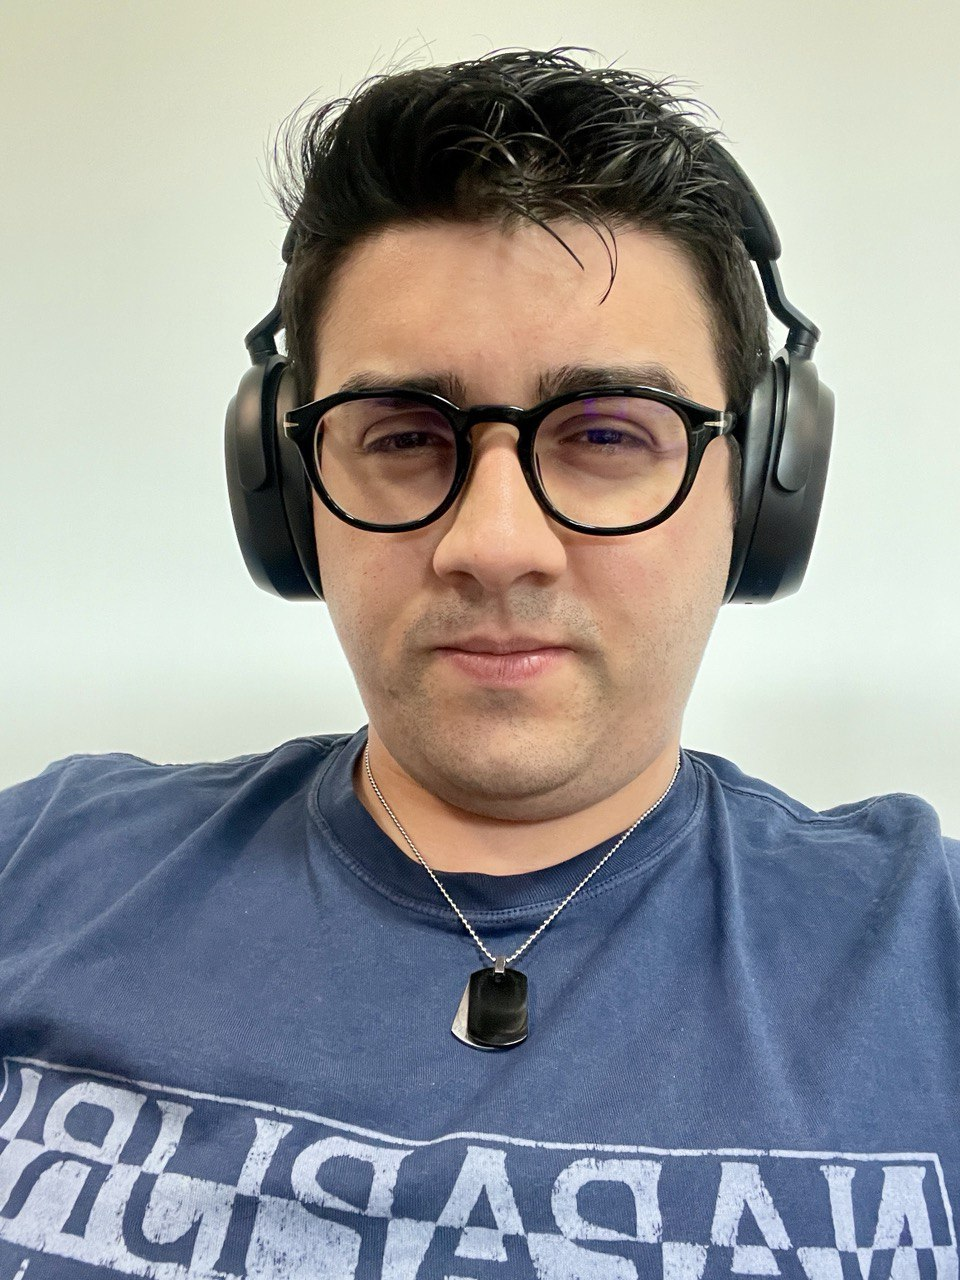
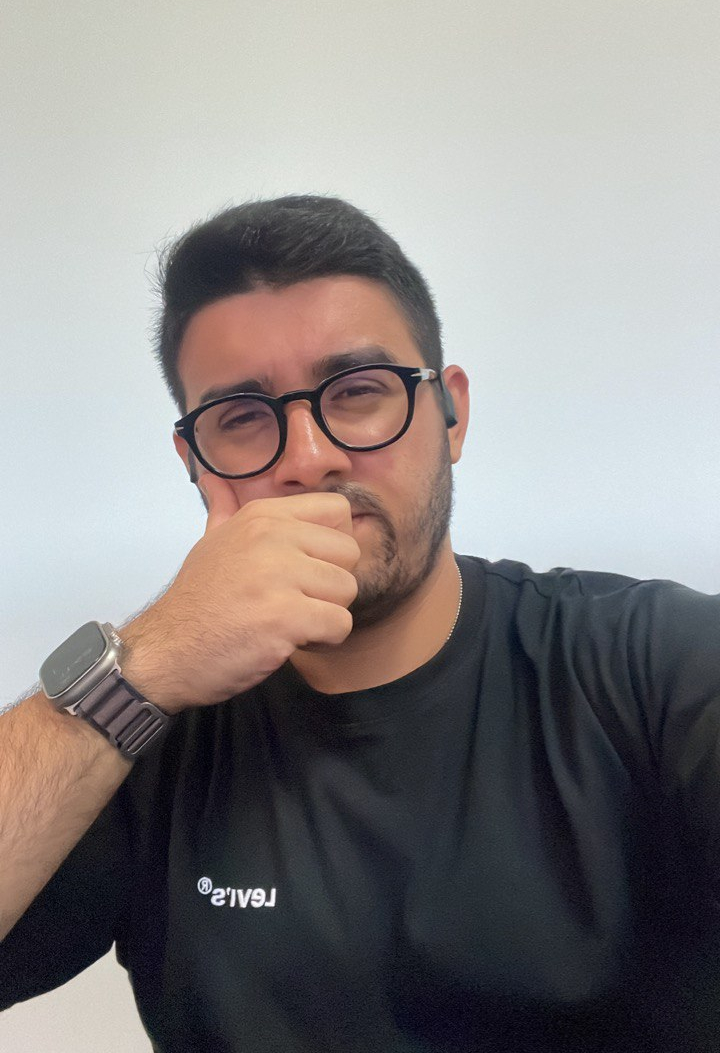
Update main image

diff --git a/index.html b/index.html
@@ -215,7 +215,7 @@
                         <div class="thumbnail">
                             <div class="inner">
                                 <img alt="Personal Portfolio Images"
-                                     src="assets/images/vertical_main/vertical_main_1.jpg">
+                                     src="assets/images/vertical_main/vertical_main_6.JPG">
                             </div>
                         </div>
                     </div>
